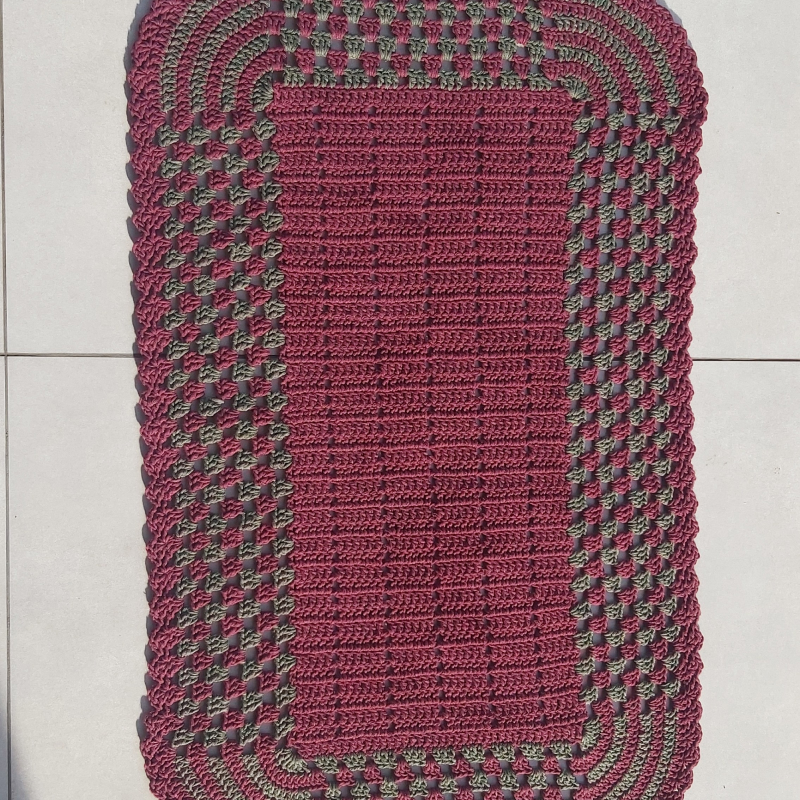
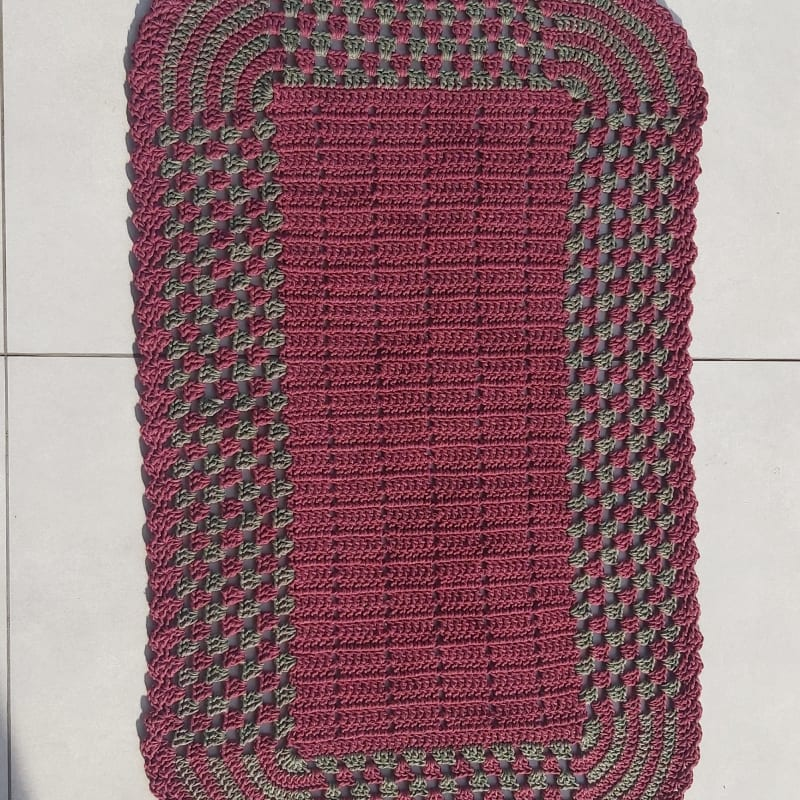
og:image mais leve

diff --git a/optimize-og-images.js b/optimize-og-images.js
@@ -1,0 +1,104 @@
+const fs = require("fs");
+const path = require("path");
+const sharp = require("sharp");
+
+const ROOT = path.join(
+  __dirname,
+  "public",
+  "products",
+);
+
+async function processDirectory(directory) {
+  const entries = fs.readdirSync(directory, {
+    withFileTypes: true,
+  });
+
+  for (const entry of entries) {
+    const fullPath = path.join(
+      directory,
+      entry.name,
+    );
+
+    if (entry.isDirectory()) {
+      await processDirectory(fullPath);
+      continue;
+    }
+
+    if (
+      entry.name.toLowerCase() !== "image.jpg"
+    ) {
+      continue;
+    }
+
+    try {
+      const originalStats =
+        fs.statSync(fullPath);
+
+      const originalSize =
+        originalStats.size;
+
+      console.log(
+        `\nProcessando: ${fullPath}`,
+      );
+
+      const buffer = await sharp(fullPath)
+        .jpeg({
+          quality: 82,
+          mozjpeg: true,
+        })
+        .toBuffer();
+
+      const tempPath = `${fullPath}.tmp`;
+
+      fs.writeFileSync(tempPath, buffer);
+      fs.renameSync(tempPath, fullPath);
+
+      const newStats =
+        fs.statSync(fullPath);
+
+      const newSize = newStats.size;
+
+      console.log(
+        `✓ ${formatBytes(originalSize)} → ${formatBytes(newSize)}`,
+      );
+    } catch (error) {
+      const message =
+        error instanceof Error
+          ? error.message
+          : String(error);
+
+      console.error(
+        `✗ Erro em ${fullPath}: ${message}`,
+      );
+    }
+  }
+}
+
+function formatBytes(bytes) {
+  if (bytes < 1024) {
+    return `${bytes} B`;
+  }
+
+  if (bytes < 1024 * 1024) {
+    return `${(bytes / 1024).toFixed(0)} KB`;
+  }
+
+  return `${(bytes / (1024 * 1024)).toFixed(2)} MB`;
+}
+
+async function main() {
+  console.log(
+    "Otimizando imagens OG...\n",
+  );
+
+  await processDirectory(ROOT);
+
+  console.log(
+    "\n✓ Otimização concluída.",
+  );
+}
+
+main().catch((error) => {
+  console.error(error);
+  process.exit(1);
+});

diff --git a/app/produto/[slug]/page.tsx b/app/produto/[slug]/page.tsx
@@ -41,7 +41,7 @@ export async function generateMetadata({
   const title = product.name;
 
   const description =
-    `Conheça ${product.name}, uma peça artesanal feita à mão pela Florisse Crochê. ` +
+    `${product.name}, uma peça artesanal feita à mão pela Florisse Crochê. ` +
     `Personalize cores e tamanhos para deixar seu cantinho ainda mais especial.`;
 
   const url = `${siteUrl}/produto/${slug}`;
